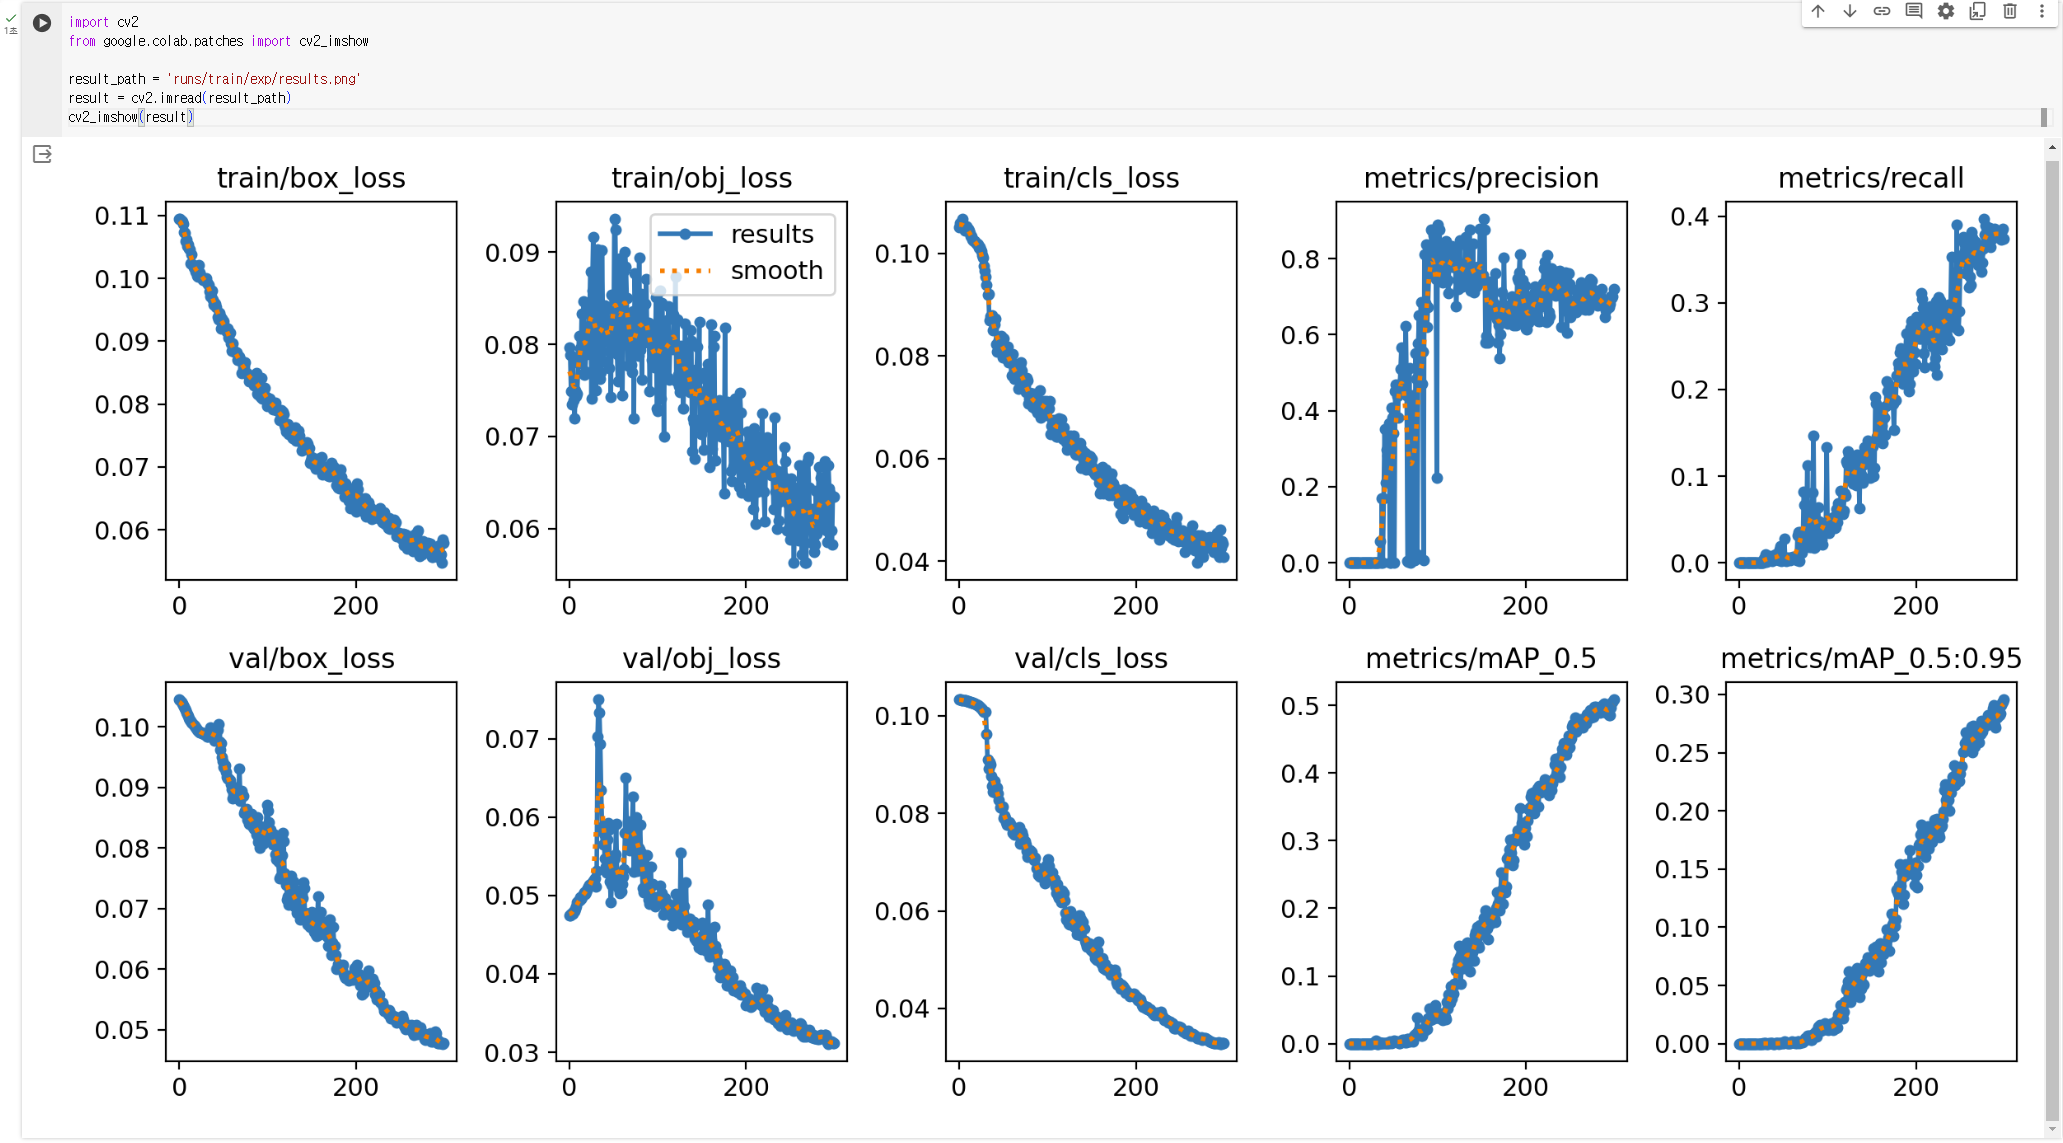
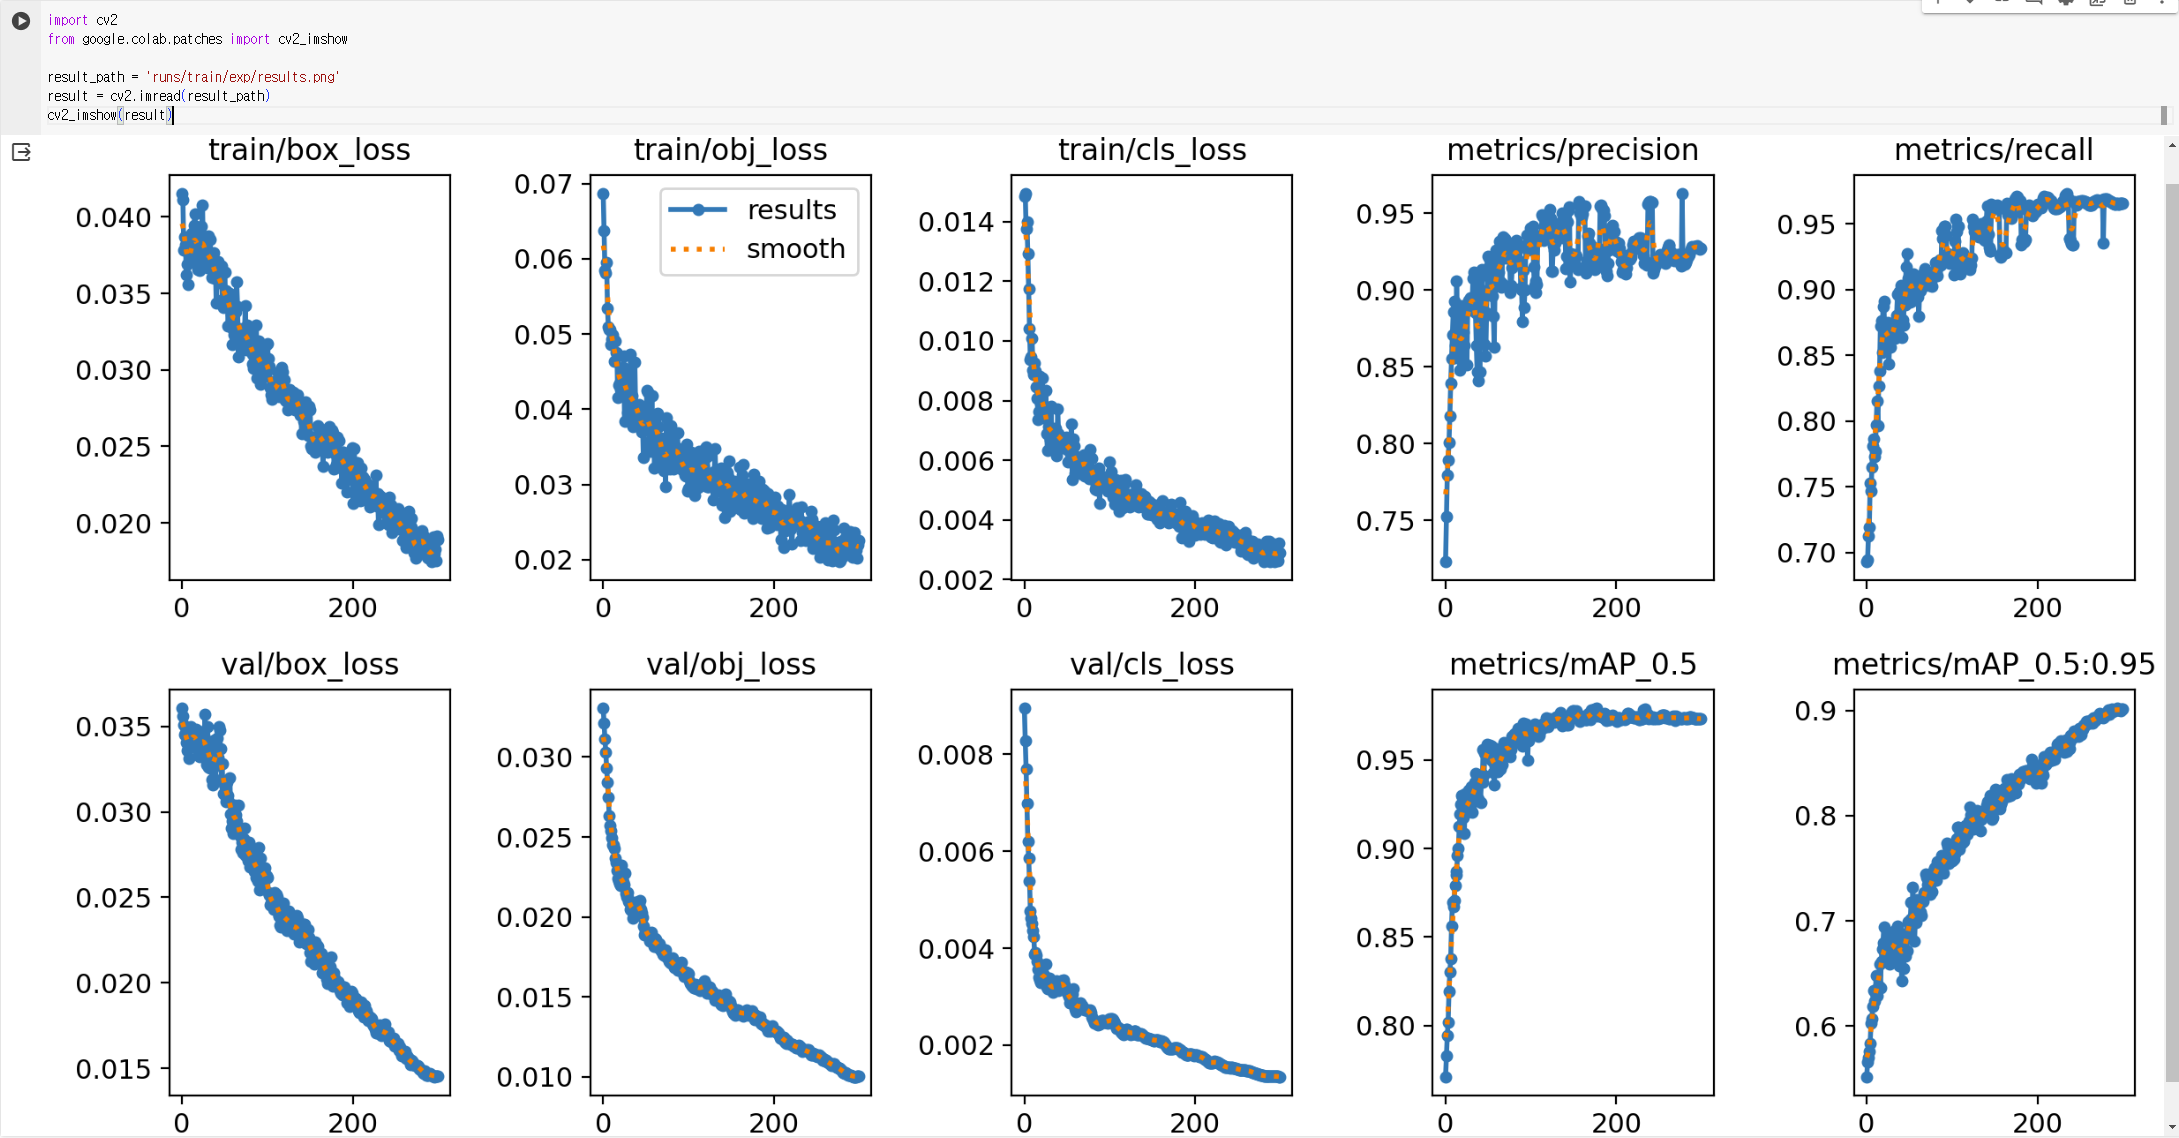
0426

diff --git a/training.md b/training.md
@@ -17,15 +17,15 @@
 
 2. Training
     ```python
-    !python train.py --weights '' --cfg models/yolov5m.yaml --data coco128.yaml --epochs 300 --batch-size 32
+    !python train.py --weights yolov5m.pt --cfg models/yolov5m.yaml --data coco128.yaml --epochs 300 --batch-size 32
     ```
     `coco128` 이라는 dataset을 직접 학습을 진행한다.
 
-    위와 같이 학습을 진행하면, pretrained model 말고 직접 learning을 통해 pt파일을 얻을 수 있다.
+    위와 같은 명령어를 통해 직접 학습을 진행해 볼 수 있다. `--weights` 뒤에 `''` 이와 같이 표시하면 pretrained model을 사용하지 않고 오로지 원하는 데이터 셋에 대해서 학습을 진행할 수 있다.
     
     해당 알고리즘을 개발한 사람이 공유한 weight파일을 pretrained model이라고 부르고, 기본적인 경우에는 이 pretrained model을 사용하는 것이 일반적으로 정확도가 더 높다.
 
-    하지만 여기서는 직접 training 시켜서 진행하는 경우에 대해서 다룬다.
+    많은 양의 dataset을 사용하지 않는다면, 성능이 매우 떨어질 가능성이 크므로 이번에는 기존의 pretrained model인 `yolov5m.pt` 를 사용해서 이 학습결과에 추가적으로 학습을 진행시켜서 어떻게 학습을 시키는 것인지 방벙베 대해서 진행한다.
 
     <img src="./config/training.png">
 
@@ -33,7 +33,7 @@
 
     <img src="./config/training_last.png">
     
-    위와 같이 저장되었다고 나타난다면 제대로 learning이 끝났다.
+    위와 같이 `runs/train/exp` 위치에 저장되었다고 나타난다면 제대로 learning이 끝났다.
 
     ```python
     import cv2
@@ -47,25 +47,36 @@
     
     위의 코드를 통해 위의 이미지와 같은 학습의 결과가 나오는 것을 확인할 수 있다.
     
-
 3. Detection
+    1. 기본적으로 Detection을 진행하기 위해 YOLOv5에서 제공하는 방식은 `detect.py` 를 사용하는 것이다. 이 방식은 아래와 같이 실행시켜볼 수 있다.
+        ```python
+        !python detect.py --weights runs/train/exp/weights/best.pt --source data/images/bus.jpg
+        !python detect.py --weights runs/train/exp/weights/best.pt --source data/images/zidane.jpg
+        ```
 
-    Pretrained model을 사용하는 것이 아니라 직접 training을 시켜서 weight파일을 얻는 경우에는, /yolov5/runs/train/exp 폴더 안에 결과값이 저장된다.
+        <img src="./config/detect_py.png">
+
+        위의 결과 사진을 보면, detect된 사진의 저장 위치가 나와있다. 해당 위치로 가서 사진을 확인해보면 된다.
+
+
+    2. Ultralytics에서 제공하는 `detect.py` 를 이용해 Detection을 진행하기도 하지만 직접 파이썬 파일을 작성해 진행한다면 다양하게 이용해 볼 수 있다.
     ```python
     import torch
     import cv2
     from google.colab.patches import cv2_imshow
 
-    weight_file_path = '/runs/train/exp/weight/best.pt'
-    model = torch.hub.load('ultralytics/yolov5', 'custom', path=weight_file_path force_reload=True, trust_repo=True)
-    img_zidane = '/data/images/zidane.jpg'
-    img_bus = '/data/images/bus.jpg'
+    model = torch.hub.load('./', 'custom', path='runs/train/exp/weights/best.pt', source='local', force_reload=True, trust_repo=True)
+    img_zidane = cv2.imread('./data/images/zidane.jpg')
+    img_bus = cv2.imread('./data/images/bus.jpg')
 
-    yolo_1 = model(cv2.imread(img_zidane))
-    yolo_2 = model(cv2.imread(img_bus))
+    yolo_1 = model(img_zidane)
+    yolo_2 = model(img_bus)
     img_1 = yolo_1.render()[0]
     img_2 = yolo_2.render()[0]
     cv2_imshow(img_1)
     cv2_imshow(img_2)
     ```
     위와 같이 코드를 작성하면, 직접 학습시킨 weight파일로 제대로 detection이 되는지 확인해 볼 수 있다.
+
+    추가적으로 해볼만한 프로젝트는 지금은 사진이 input인데 video를 input으로 해서 진행해 보는 것이다. 그리고 webcam을 통해 들어오는 실시간 카메라 이미지를 사용해서 진행해 보는 것이다. 하지만, webcam을 사용하는 방식은 colab이 아닌 local environment에서 실행해야 한다.
+    
